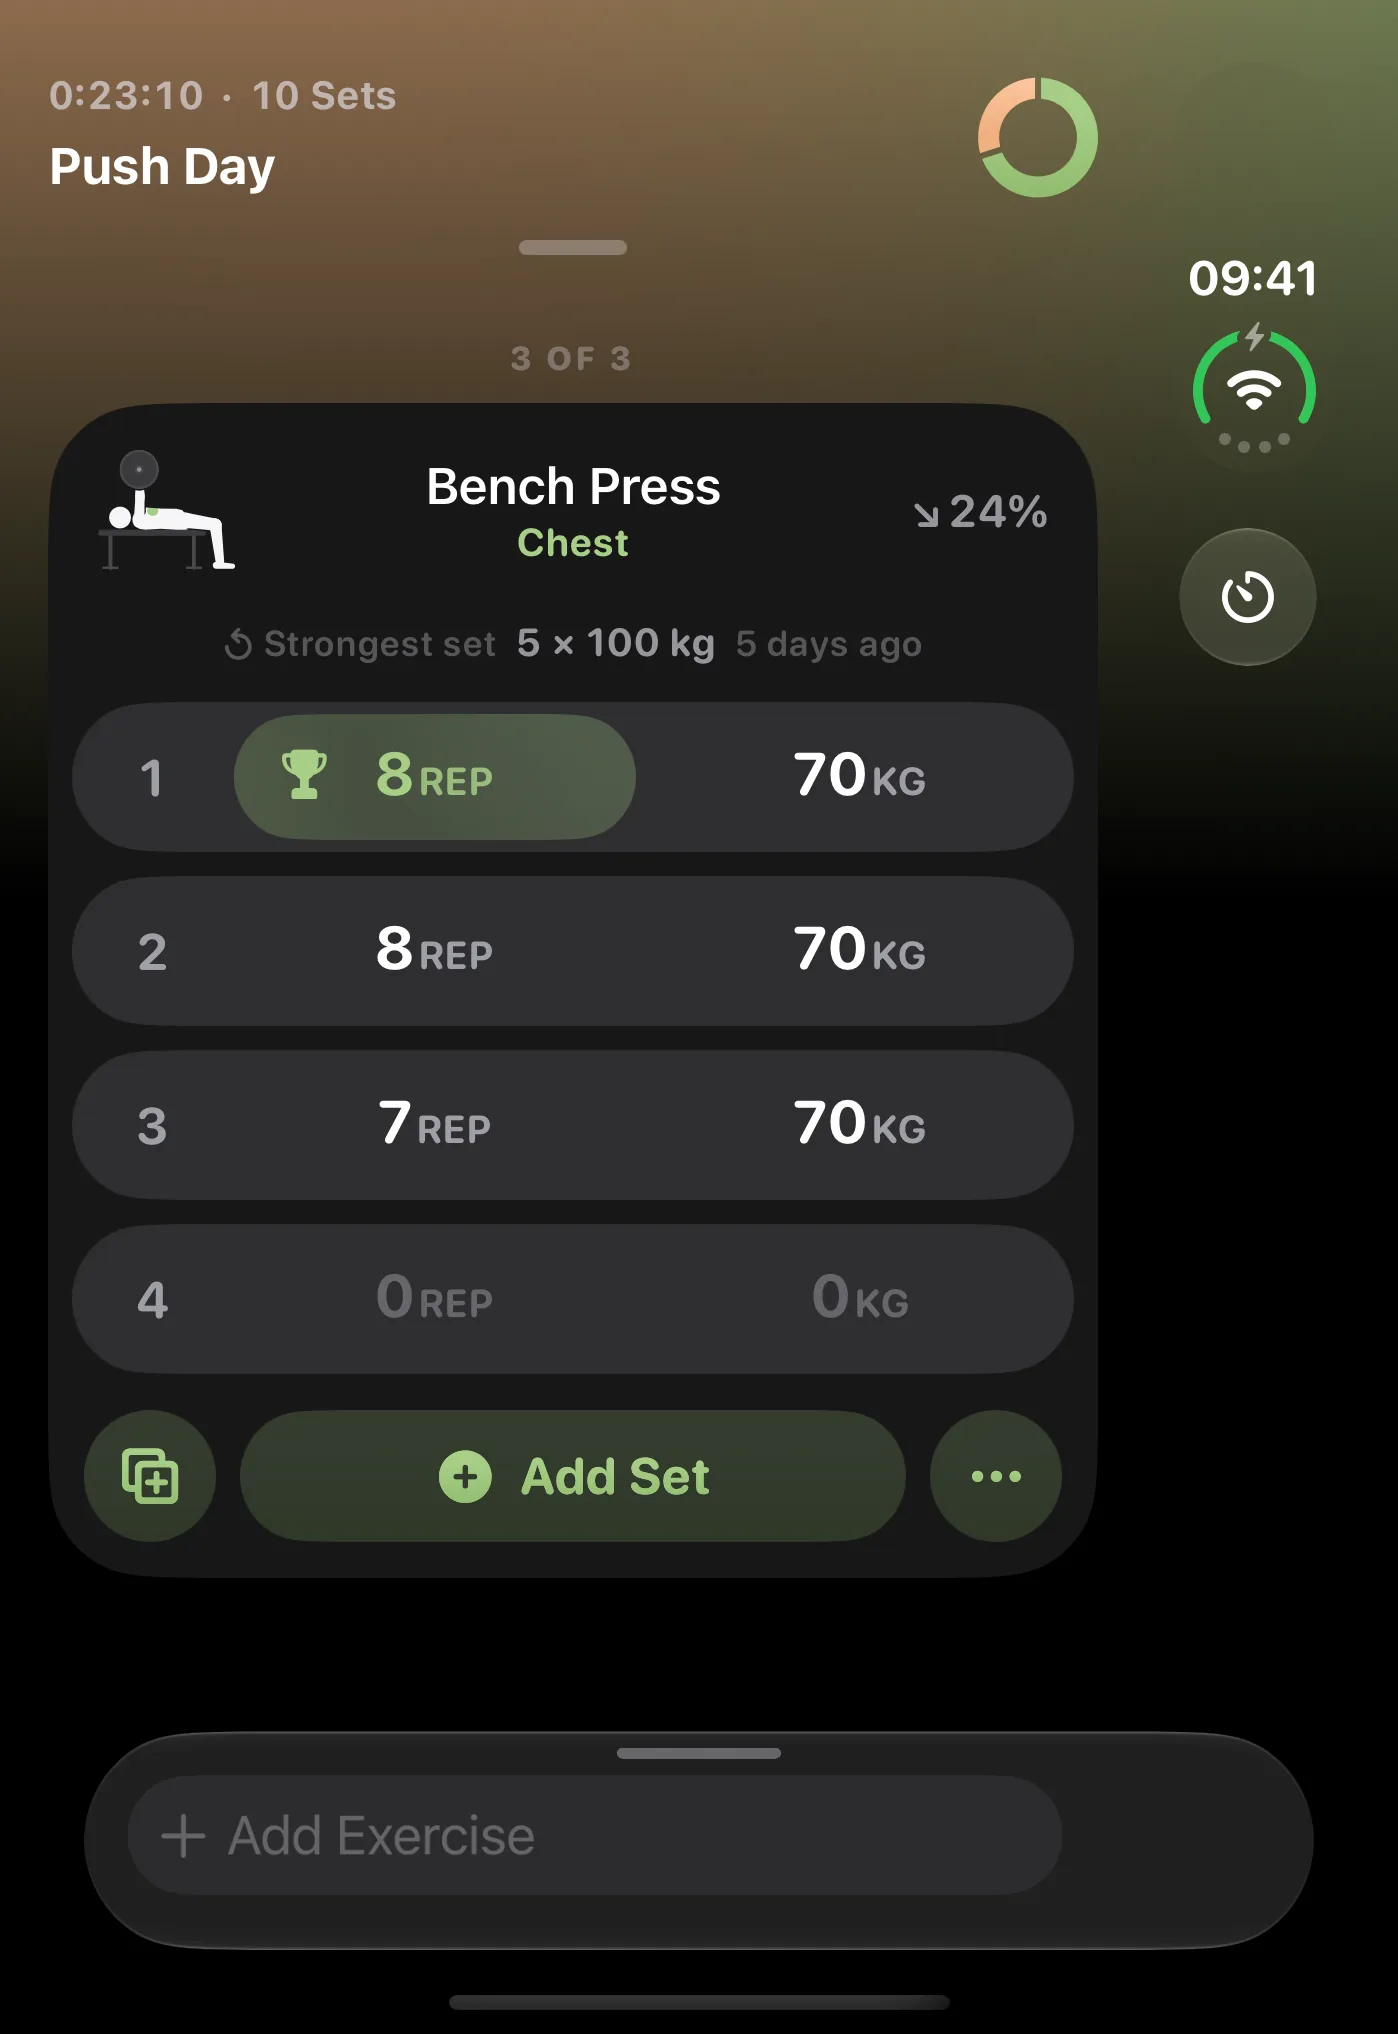
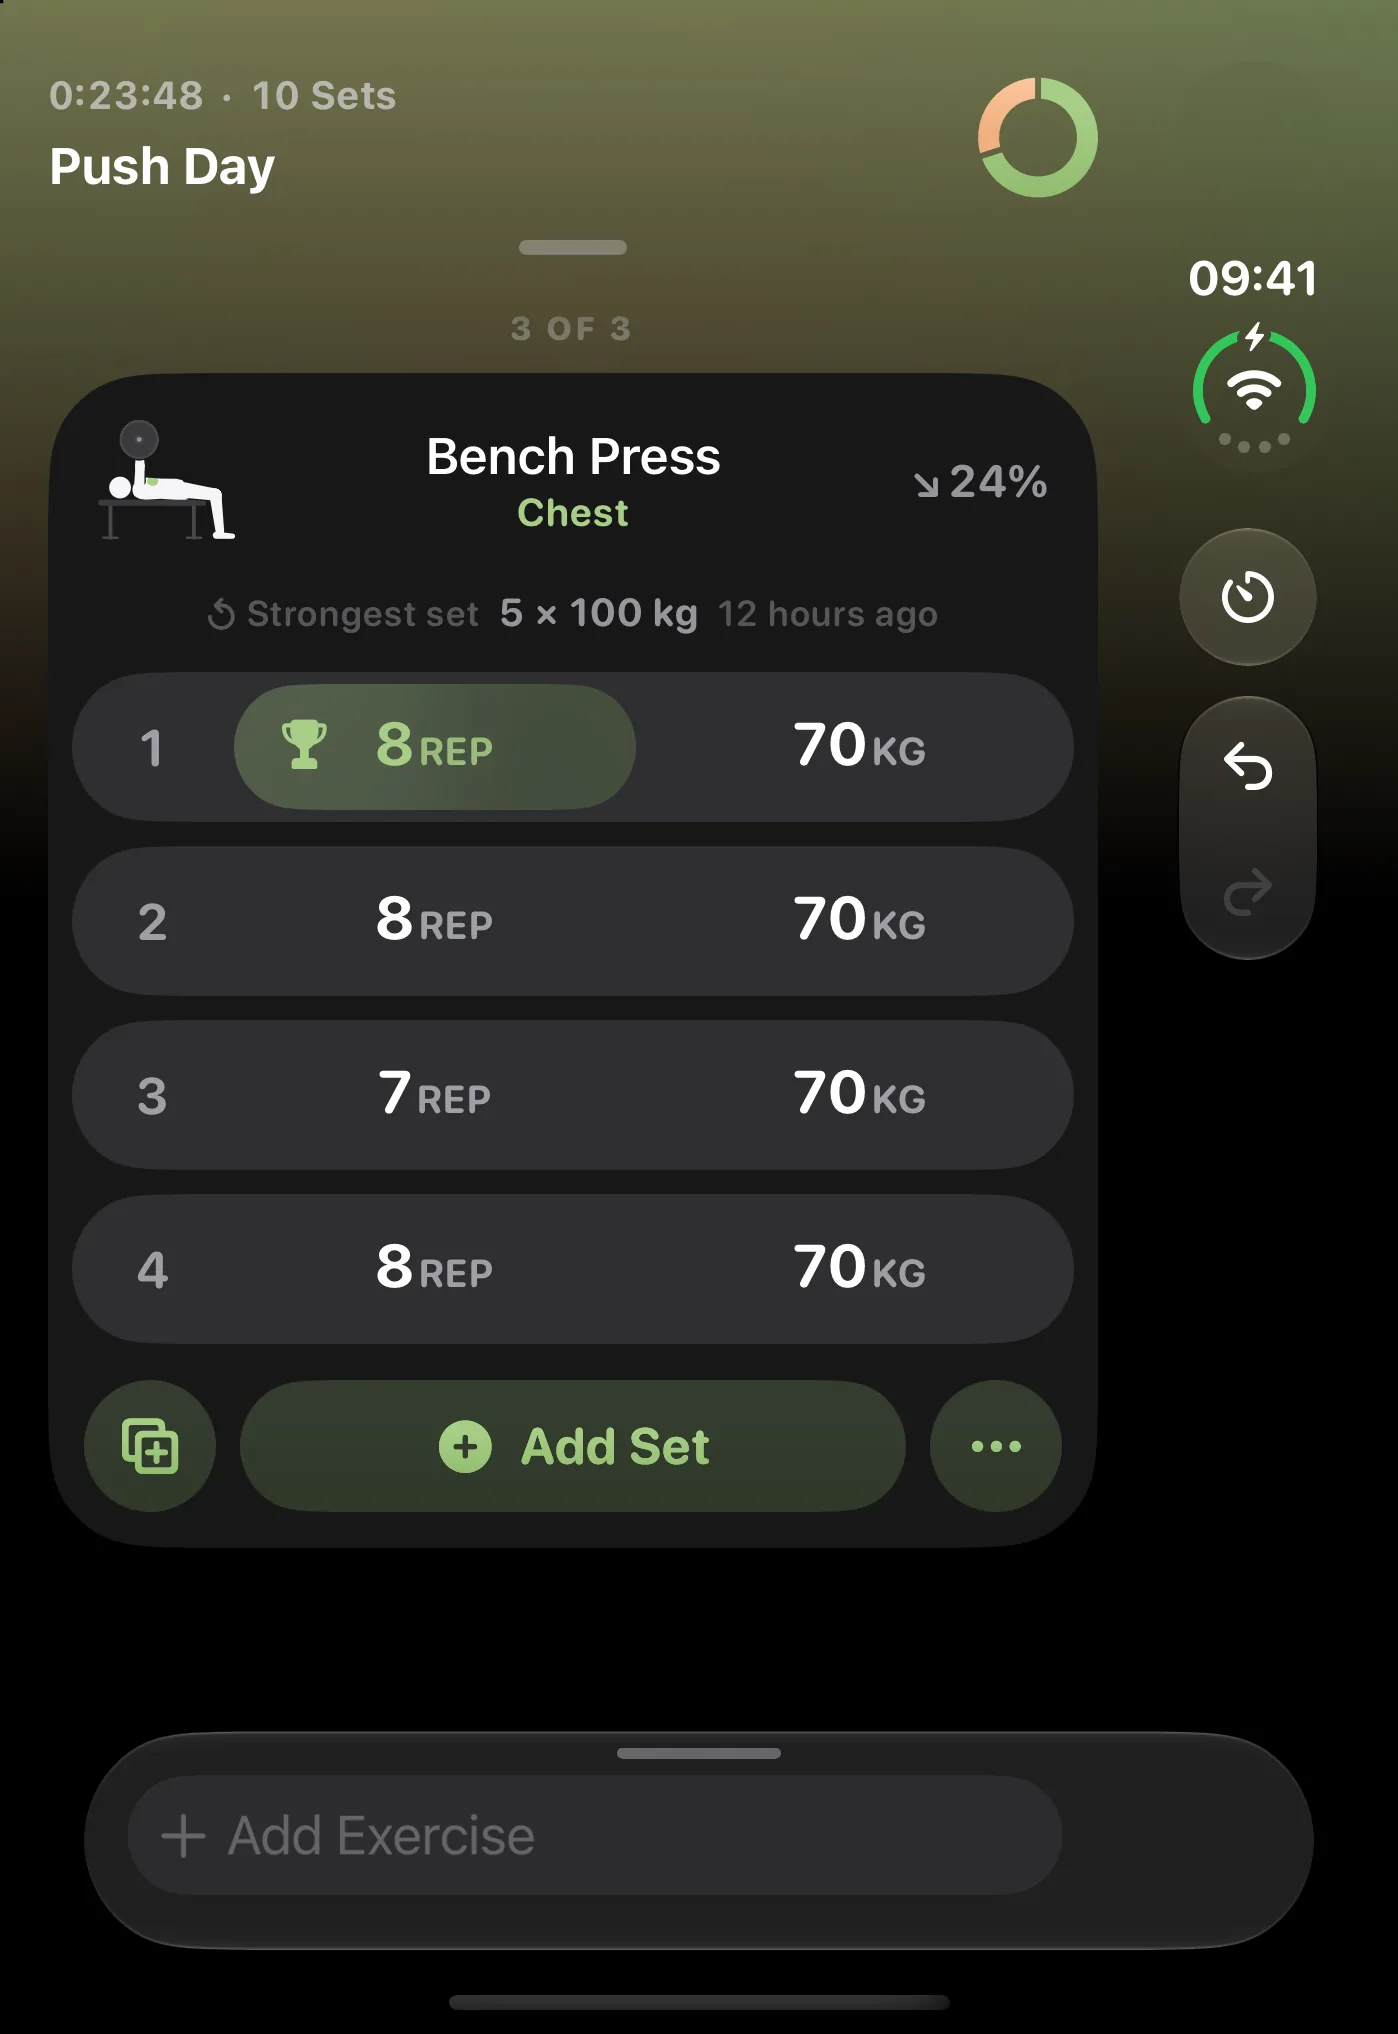
iPhone Duo page: recorder screens with undo and redo
The 14 recorder screenshots (closed, open sideways, open upright) are retaken
on 5.5 with undo and redo in the side column under the rest timer, and on the
open display with Next and hide back on the keyboard. The two recorder
highlights say so.

Changed region(s): [[0.0308, 0.1549, 0.7997, 0.7743], [0.8305, 0.3407, 0.9535, 0.4956], [0.0, 0.0, 0.1538, 0.0619]]

diff --git a/site/iphone-duo/index.html b/site/iphone-duo/index.html
@@ -34,11 +34,11 @@
       </figure>
       <figure class="shot">
         <div><a href="../images/duo/open-sideways/15b_recorder_timer-2000.webp"><img src="../images/duo/open-sideways/15b_recorder_timer-1000.webp" srcset="../images/duo/open-sideways/15b_recorder_timer-1000.webp 1000w, ../images/duo/open-sideways/15b_recorder_timer-2000.webp 2000w" sizes="(max-width: 760px) 100vw, 540px" width="1000" height="703" loading="lazy" alt="Open, held sideways: Recorder, rest timer running"></a></div>
-        <figcaption>During a workout the sets stay in one centered column, like on a phone. The rest timer and the other controls move into the column beside it.</figcaption>
+        <figcaption>During a workout the sets stay in one centered column, like on a phone. The rest timer, undo and redo move into the column beside it, and Next and hide stay on the keyboard.</figcaption>
       </figure>
       <figure class="shot pair">
         <div><a href="../images/duo/closed/15b_recorder_timer-1398.webp"><img src="../images/duo/closed/15b_recorder_timer-640.webp" srcset="../images/duo/closed/15b_recorder_timer-640.webp 640w, ../images/duo/closed/15b_recorder_timer-1398.webp 1398w" sizes="(max-width: 760px) 50vw, 270px" width="640" height="931" loading="lazy" alt="Closed: Recorder, rest timer running"></a><a href="../images/duo/closed/15c_recorder_timer_paused-1398.webp"><img src="../images/duo/closed/15c_recorder_timer_paused-640.webp" srcset="../images/duo/closed/15c_recorder_timer_paused-640.webp 640w, ../images/duo/closed/15c_recorder_timer_paused-1398.webp 1398w" sizes="(max-width: 760px) 50vw, 270px" width="640" height="931" loading="lazy" alt="Closed: Recorder, rest timer paused"></a></div>
-        <figcaption>Closed, the rest timer stands upright under the clock. Pause shows while it runs, play and stop once it&#x27;s paused.</figcaption>
+        <figcaption>Closed, the rest timer stands upright under the clock, with undo and redo below it. Pause shows while the timer runs, play and stop once it&#x27;s paused.</figcaption>
       </figure>
     </div>
 

diff --git a/tools/build-duo.py b/tools/build-duo.py
@@ -35,10 +35,11 @@ HIGHLIGHTS = [
     (["open-sideways/02_strength"],
      "Charts use the full width, the way Health does on iPad."),
     (["open-sideways/15b_recorder_timer"],
-     "During a workout the sets stay in one centered column, like on a phone. The rest timer and the other controls "
-     "move into the column beside it."),
+     "During a workout the sets stay in one centered column, like on a phone. The rest timer, undo and redo move into "
+     "the column beside it, and Next and hide stay on the keyboard."),
     (["closed/15b_recorder_timer", "closed/15c_recorder_timer_paused"],
-     "Closed, the rest timer stands upright under the clock. Pause shows while it runs, play and stop once it's paused."),
+     "Closed, the rest timer stands upright under the clock, with undo and redo below it. Pause shows while the timer "
+     "runs, play and stop once it's paused."),
 ]
 
 
